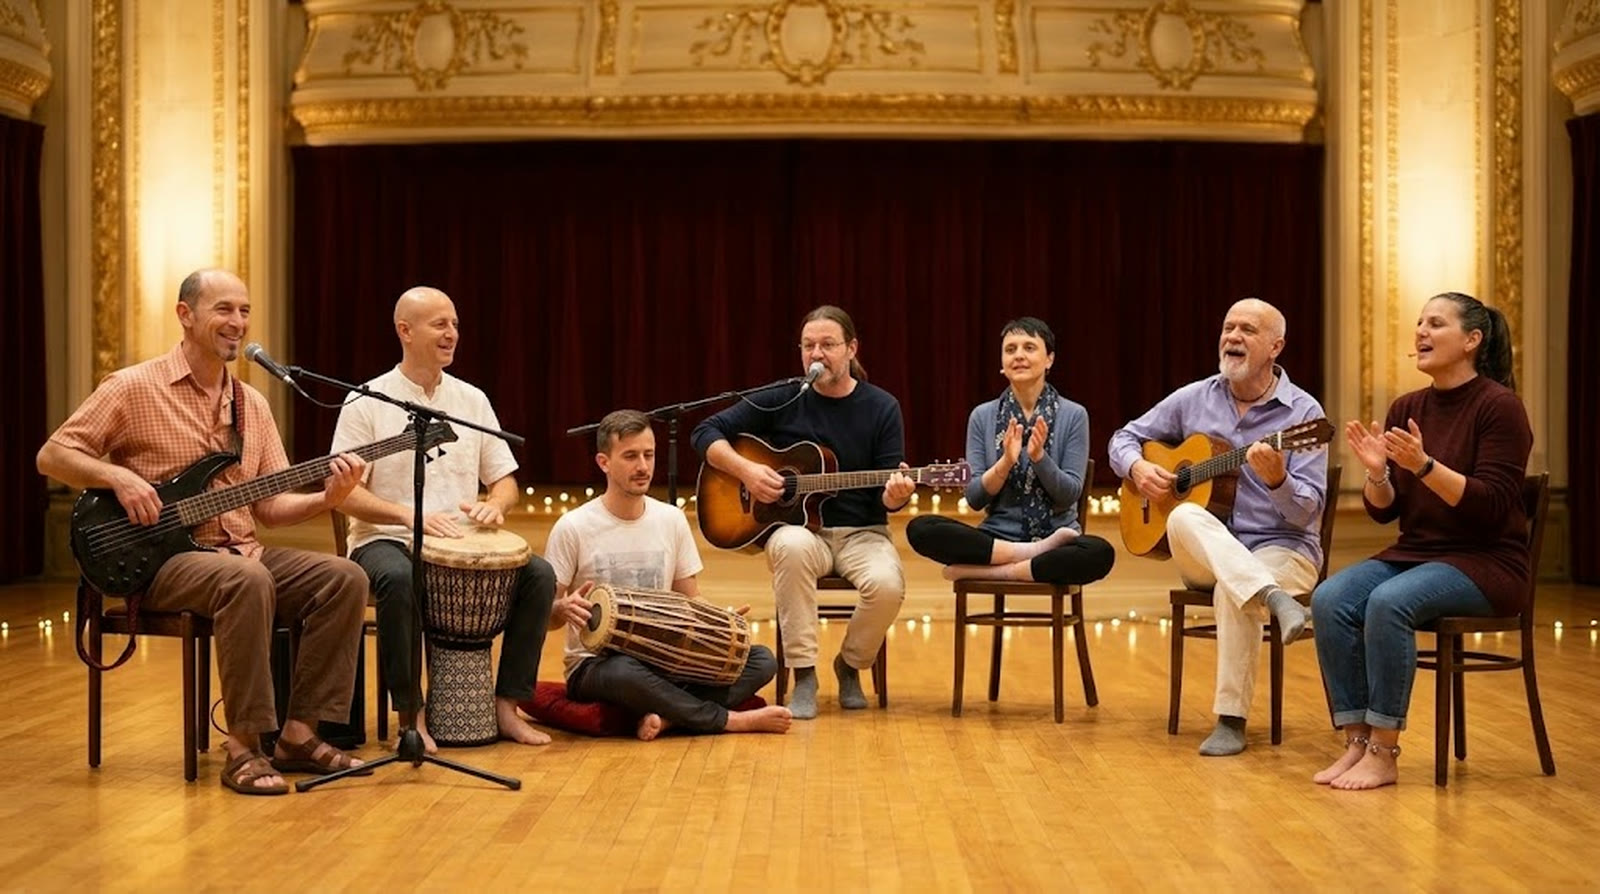
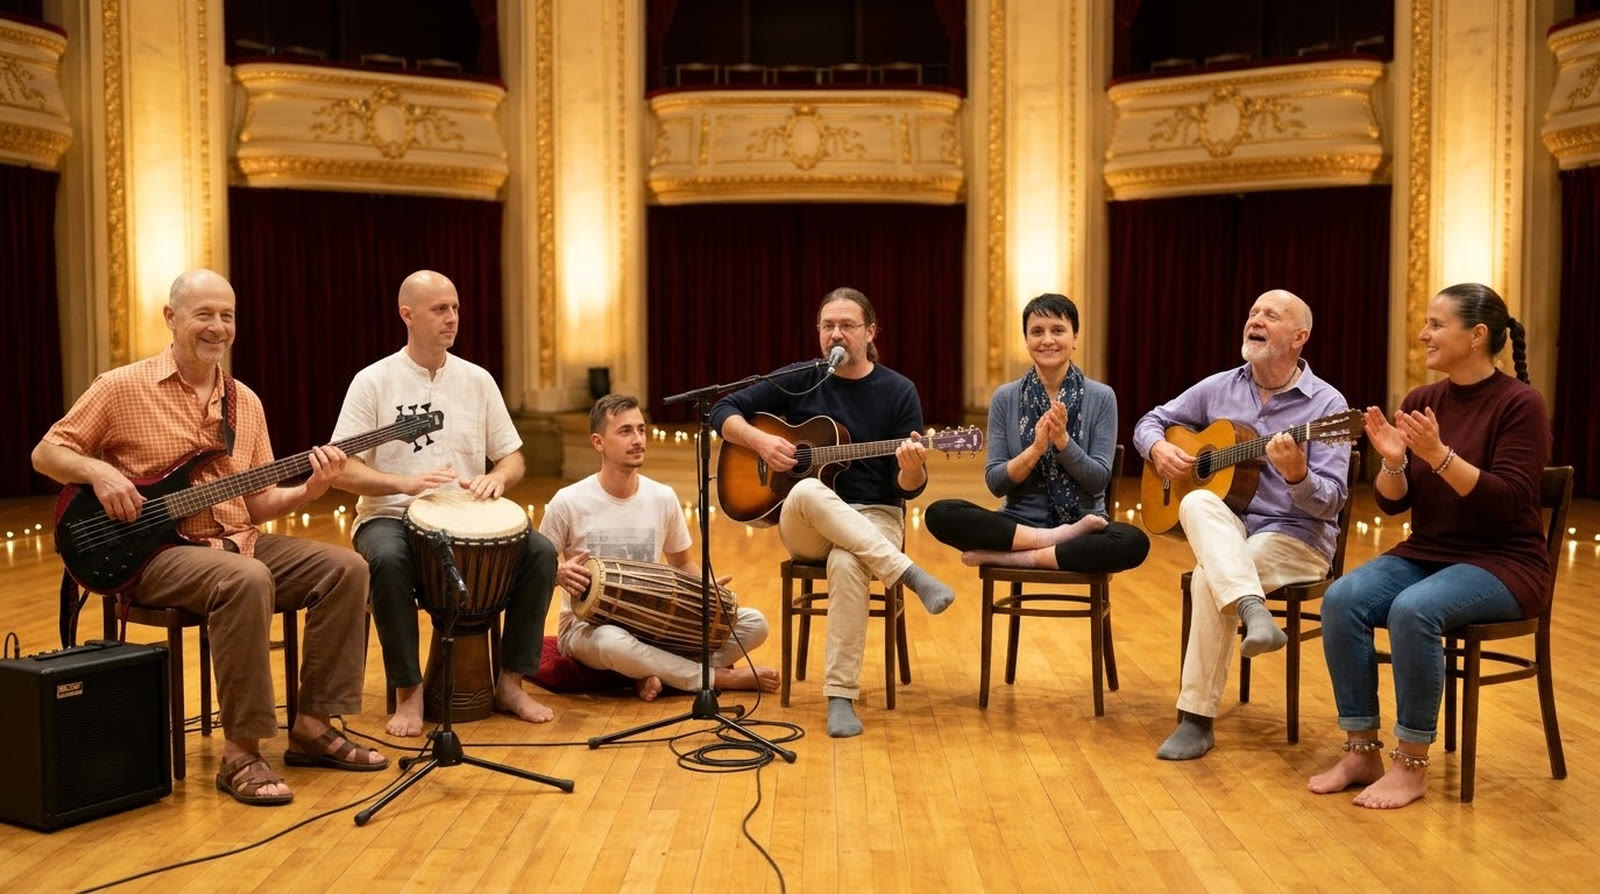
Band group picture: new hero from the seven portraits (imgtoimg Nano Banana 2, Marko approved); previous kept as hero-prev.jpg (9.11.2026)
Claude-Session: https://claude.ai/code/session_01NceKU8PKmedvkKm89PySPN

diff --git a/index.html b/index.html
@@ -505,7 +505,7 @@ table.eqt td, table.eqt th { white-space: normal; font-size: 15px; }
     <h1>Santoshi Kirtan Band</h1>
     <p class="lead"><span class="en">Seven of us, from Zagreb. The portraits are photographic renderings made from our real photos, all in one concert hall.</span><span class="hr">Sedmero nas, iz Zagreba. Portreti su fotografske izrade iz naših pravih fotografija, svi u istoj koncertnoj dvorani.</span></p>
   </header>
-  <img class="band-hero" src="img/band/hero.jpg" alt="">
+  <img class="band-hero" src="img/band/hero.jpg?v=20261109c" alt="">
   <div class="players"><figure class="player"><img src="img/band/a-bass.jpg?v=20261109b" alt="" loading="lazy"><figcaption><b>Svemir Vranko</b><span><span class="en">bass guitar · voice</span><span class="hr">bas-gitara · glas</span></span></figcaption></figure><figure class="player"><img src="img/band/b-djembe.jpg" alt="" loading="lazy"><figcaption><b>Marko Boško</b><span><span class="en">djembe</span><span class="hr">džembe</span></span></figcaption></figure><figure class="player"><img src="img/band/c-mridangam.jpg" alt="" loading="lazy"><figcaption><b>Kristian Nasteski</b><span><span class="en">mridangam · harmonium · voice</span><span class="hr">mridangam · harmonij · glas</span></span></figcaption></figure><figure class="player"><img src="img/band/d-guitar.jpg?v=20261109b" alt="" loading="lazy"><figcaption><b>Igor Pavlić</b><span><span class="en">voice · guitar</span><span class="hr">glas · gitara</span></span></figcaption></figure><figure class="player"><img src="img/band/e-voice.jpg" alt="" loading="lazy"><figcaption><b>Tajana Stipetić</b><span><span class="en">voice</span><span class="hr">glas</span></span></figcaption></figure><figure class="player"><img src="img/band/f-nylon.jpg" alt="" loading="lazy"><figcaption><b>Tomislav Tenšek Snoopy</b><span><span class="en">guitar</span><span class="hr">gitara</span></span></figcaption></figure><figure class="player"><img src="img/band/g-bells.jpg" alt="" loading="lazy"><figcaption><b>Petra Belamarić</b><span><span class="en">tambourine</span><span class="hr">tamburin</span></span></figcaption></figure></div>
   <footer>Santoshi Kirtan Band · Zagreb</footer>
 </div>
